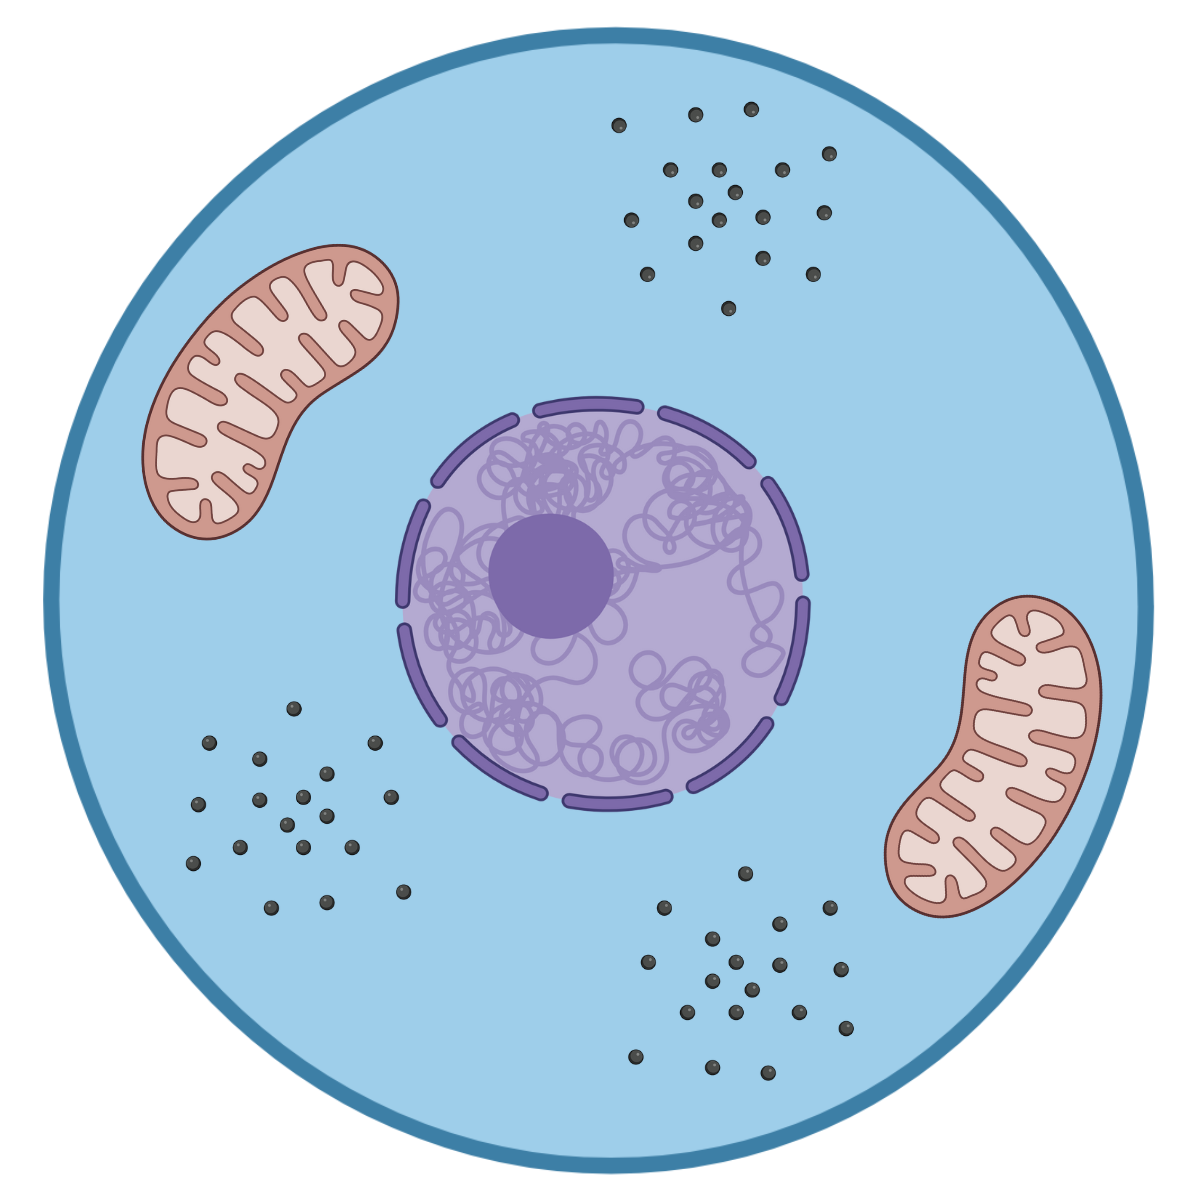
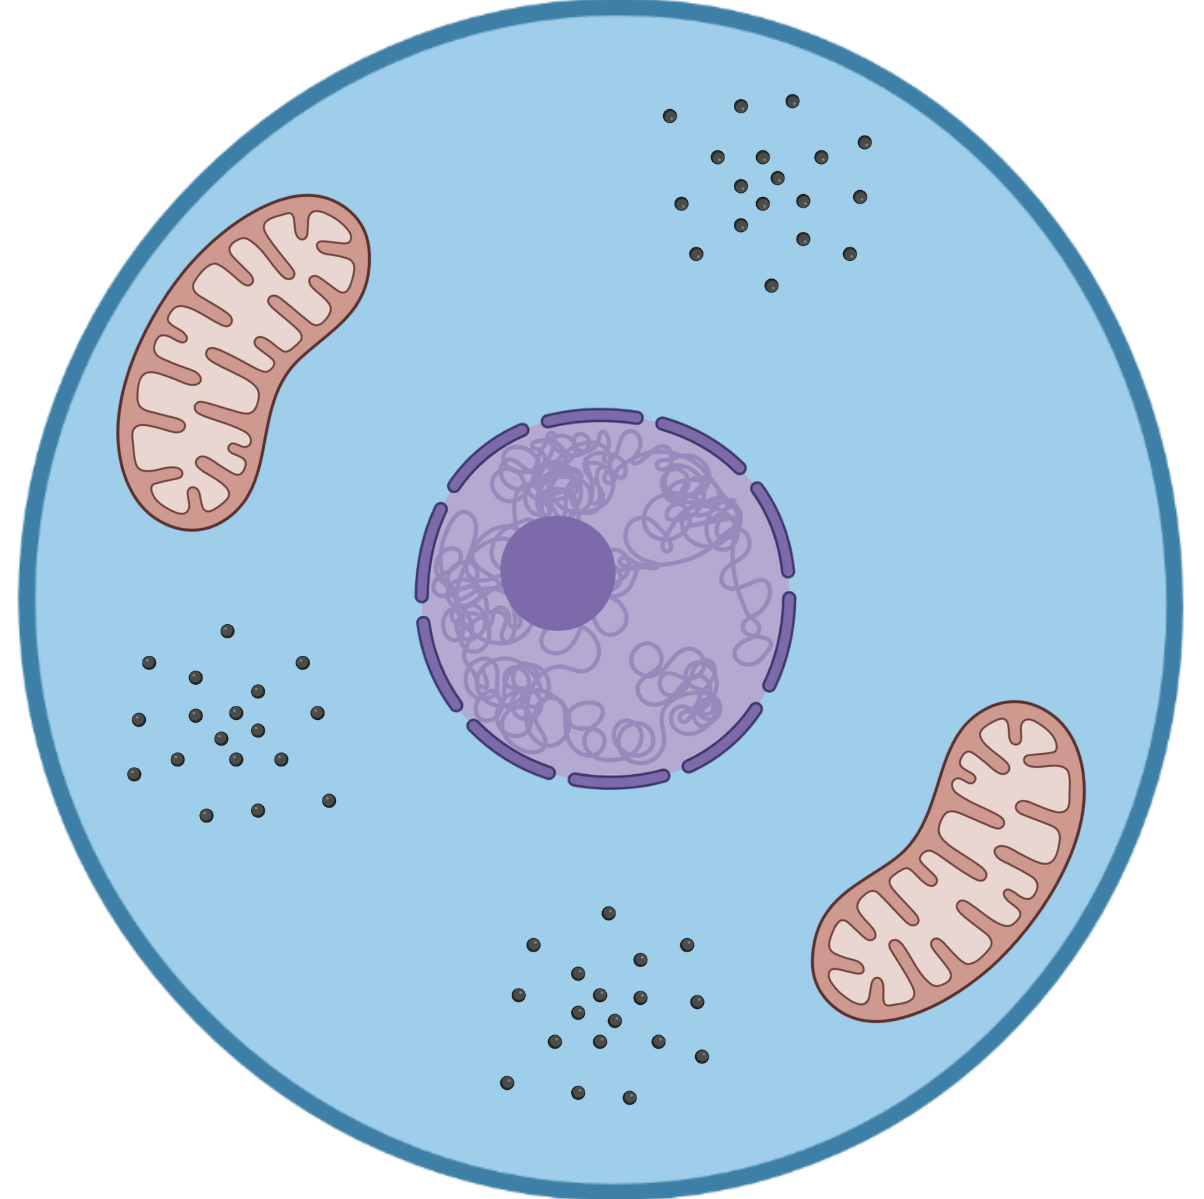
included realistic organelle / cell textures and repositioned them

diff --git a/core/src/main/java/cellcorp/gameofcells/objects/Cell.java b/core/src/main/java/cellcorp/gameofcells/objects/Cell.java
@@ -15,6 +15,7 @@ import cellcorp.gameofcells.screens.GamePlayScreen;
 import com.badlogic.gdx.utils.Array;
 
 import java.util.List;
+import java.util.ArrayList;
 
 import static com.badlogic.gdx.math.MathUtils.lerpAngleDeg;
 import static java.lang.Math.abs;
@@ -349,18 +350,19 @@ public class Cell {
         // and the class of the asset to load.
 
         //cell Texture
-        if (hasSmallSizeUpgrade) {
-            if (cellHealth <= (MAX_HEALTH/2)) {
-                cellTexture = assetManager.get(AssetFileNames.CELL_MEMBRANE_DAMAGED, Texture.class);
-            }
-            else {
-                cellTexture = assetManager.get(AssetFileNames.CELL_MEMBRANE, Texture.class);
+        // if (hasSmallSizeUpgrade) {
+        //     if (cellHealth <= (MAX_HEALTH/2)) {
+        //         cellTexture = assetManager.get(AssetFileNames.CELL_MEMBRANE_DAMAGED, Texture.class);
+        //     }
+        //     else {
+        //         cellTexture = assetManager.get(AssetFileNames.CELL_MEMBRANE, Texture.class);
 
-            }
-        }
-        else {
-            cellTexture = assetManager.get(AssetFileNames.CELL, Texture.class);
-        }
+        //     }
+        // }
+        // else {
+        //     cellTexture = assetManager.get(AssetFileNames.CELL, Texture.class);
+        // }
+        cellTexture = assetManager.get(AssetFileNames.CELL, Texture.class);
 
         drawFlagellum(hasFlagella, shapeRenderer); //moved outside of draw organelles to be underneath the cell.
 
@@ -473,64 +475,96 @@ public class Cell {
         float cellRadius = cellSize / 2f;
         float centerX = cellCircle.x;
         float centerY = cellCircle.y;
-        // Draw mitochondria (bottom-left quadrant)
+
         if (hasMitochondria) {
             var mitochondriaTexture = assetManager.get(AssetFileNames.MITOCHONDRIA_ICON, Texture.class);
-            float mitochondriaSize = cellSize * 0.3f; // Adjust size as needed
 
-            float mitoX = centerX - mitochondriaSize / 2 - cellRadius * 0.5f;
-            float mitoY = centerY - mitochondriaSize / 2 - cellRadius * 0.5f;
+            assert (mitochondriaTexture != null);
 
+            float size = cellSize * 0.3f;
+
+            Vector2 offset1 = new Vector2(+cellRadius * 0.6f, +cellRadius * 0.5f).rotateDeg(cellRotation);
+            Vector2 offset2 = new Vector2(-cellRadius * 0.6f, -cellRadius * 0.5f).rotateDeg(cellRotation);
+
+            float angle1 = cellRotation + 135;
+            float angle2 = cellRotation + 315;
+
+            // Draw first mitochondrion (top-right side)
             batch.draw(mitochondriaTexture,
-                mitoX, mitoY,
-                centerX - mitoX, centerY - mitoY,
-                mitochondriaSize, mitochondriaSize,
+                centerX + offset1.x - size / 2,
+                centerY + offset1.y - size / 2,
+                size / 2, size / 2,
+                size, size,
                 1f, 1f,
-                cellRotation,
+                angle1,
                 0, 0,
                 mitochondriaTexture.getWidth(), mitochondriaTexture.getHeight(),
-                false, false);
+                false, true);
+
+            // Draw second mitochondrion (bottom-left side)
+            batch.draw(mitochondriaTexture,
+                centerX + offset2.x - size / 2,
+                centerY + offset2.y - size / 2,
+                size / 2, size / 2,
+                size, size,
+                1f, 1f,
+                angle2,
+                0, 0,
+                mitochondriaTexture.getWidth(), mitochondriaTexture.getHeight(),
+                false, true);
         }
 
         // Draw ribosomes (top-left quadrant)
         if (hasRibosomes) {
             var ribosomeTexture = assetManager.get(AssetFileNames.RIBOSOME_ICON, Texture.class);
+
+            assert (ribosomeTexture != null);
+
             float ribosomeSize = cellSize * 0.2f; // Adjust size as needed
 
-            float riboX = centerX - ribosomeSize / 2 - cellRadius * 0.7f;
-            float riboY = centerY - ribosomeSize / 2 + cellRadius * 0.3f;
+            Vector2 offset1 = new Vector2(-cellRadius * 0.5f, +cellRadius * 0.5f).rotateDeg(cellRotation); // Top-left
+            Vector2 offset2 = new Vector2(+cellRadius * 0.6f, -cellRadius * 0.3f).rotateDeg(cellRotation); // Bottom-right
+            Vector2 offset3 = new Vector2(-cellRadius * 0.1f, -cellRadius * 0.6f).rotateDeg(cellRotation); // Bottom-middle-left
 
+            // Draw first ribosome (top-left side)
             batch.draw(ribosomeTexture,
-                riboX, riboY,
-                centerX - riboX, centerY - riboY,
-                ribosomeSize, ribosomeSize,
-                1f, 1f,
-                cellRotation,
-                0, 0,
-                ribosomeTexture.getWidth(), ribosomeTexture.getHeight(),
-                false, false);
-        }
+                    centerX + offset1.x - ribosomeSize / 2,
+                    centerY + offset1.y - ribosomeSize / 2,
+                    ribosomeSize, ribosomeSize);
 
+            // Draw second ribosome (bottom-right side)
+            batch.draw(ribosomeTexture,
+                    centerX + offset2.x - ribosomeSize / 2,
+                    centerY + offset2.y - ribosomeSize / 2,
+                    ribosomeSize, ribosomeSize);
+
+            // Draw third ribosome (bottom-middle-left side)
+            batch.draw(ribosomeTexture,
+                    centerX + offset3.x - ribosomeSize / 2,
+                    centerY + offset3.y - ribosomeSize / 2,
+                    ribosomeSize, ribosomeSize);
+        }
 
         // Draw nucleus (center with pulse effect)
         if (hasNucleus) {
             var nucleusTexture = assetManager.get(AssetFileNames.NUCLEUS_ICON, Texture.class);
-            float nucleusSize = cellSize * 0.4f * pulseScale; // Adjust size and pulse effect
-            float nukeX = centerX - nucleusSize / 2;
-            float nukeY = centerY - nucleusSize / 2;
+
+            assert (nucleusTexture != null);
+
+            float baseSize = cellSize * 0.4f;
+            float nucleusSize = baseSize * pulseScale; // Adjust size based on pulse effect
 
             batch.draw(nucleusTexture,
-                nukeX, nukeY,
-                centerX - nukeX, centerY - nukeY,
-                nucleusSize, nucleusSize,
-                1f, 1f,
-                cellRotation,
-                0, 0,
-                nucleusTexture.getWidth(), nucleusTexture.getHeight(),
-                false, false);
+                    centerX - nucleusSize / 2,
+                    centerY - nucleusSize / 2,
+                    nucleusSize / 2 , nucleusSize / 2,
+                    nucleusSize, nucleusSize,
+                    1f, 1f,
+                    cellRotation,
+                    0, 0,
+                    nucleusTexture.getWidth(), nucleusTexture.getHeight(),
+                    false, false);
         }
-
-
     }
 
     /**

diff --git a/core/src/main/java/cellcorp/gameofcells/AssetFileNames.java b/core/src/main/java/cellcorp/gameofcells/AssetFileNames.java
@@ -8,7 +8,7 @@ public class AssetFileNames {
     /**
      * The file name for our cell texture.
      */
-    public static String CELL = "mod_cell.png";
+    public static String CELL = "cell_real.png";
 
     public static String CELL_MEMBRANE = "cell_membrane.png";
 
@@ -84,12 +84,12 @@ public class AssetFileNames {
     /**
      * The file name for the mitochondria texture.
      */
-    public static String MITOCHONDRIA_ICON = "mitochondria.png";
+    public static String MITOCHONDRIA_ICON = "mitochondria_real.png";
 
     /**
      * The file name for the ribosome texture.
      */
-    public static String RIBOSOME_ICON = "ribosomes.png";
+    public static String RIBOSOME_ICON = "ribosomes_real.png";
 
     /**
      * The file name for the flagella texture.
@@ -99,7 +99,7 @@ public class AssetFileNames {
     /**
      * The file name for the nucleus texture.
      */
-    public static String NUCLEUS_ICON = "nucleus.png";
+    public static String NUCLEUS_ICON = "nucleus_real.png";
 
     /**
      * The file name for the lock texture.
